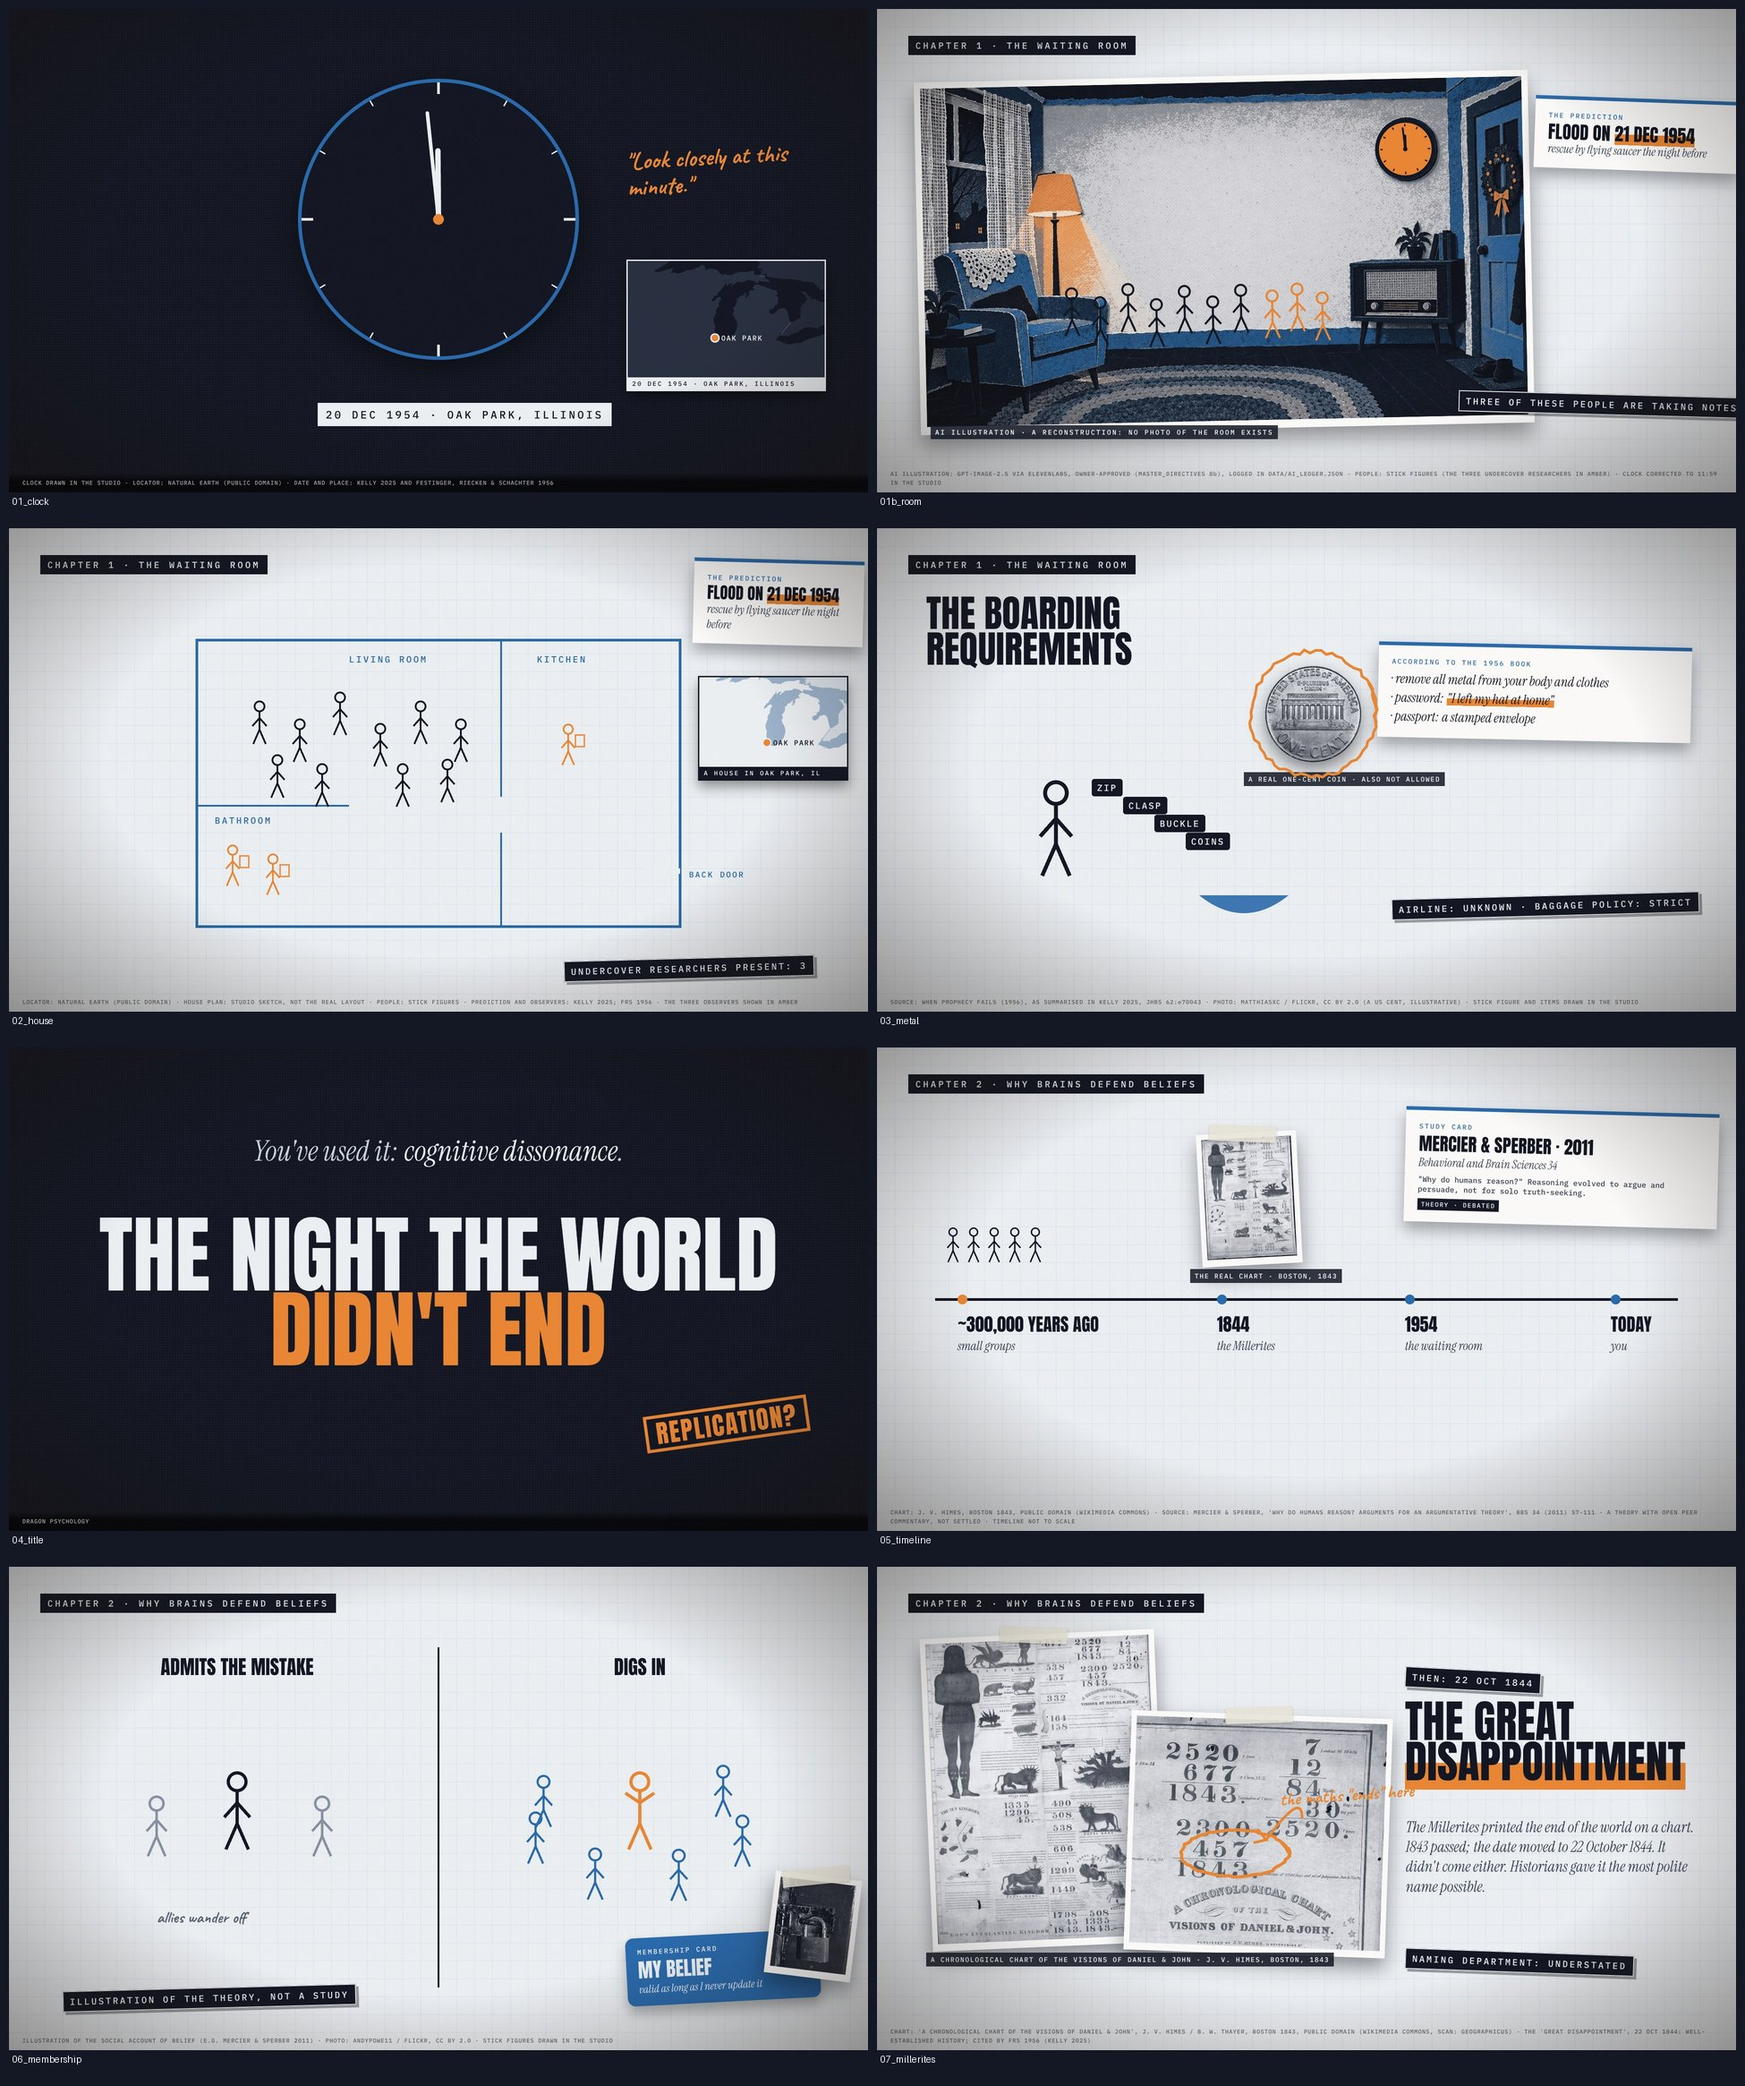
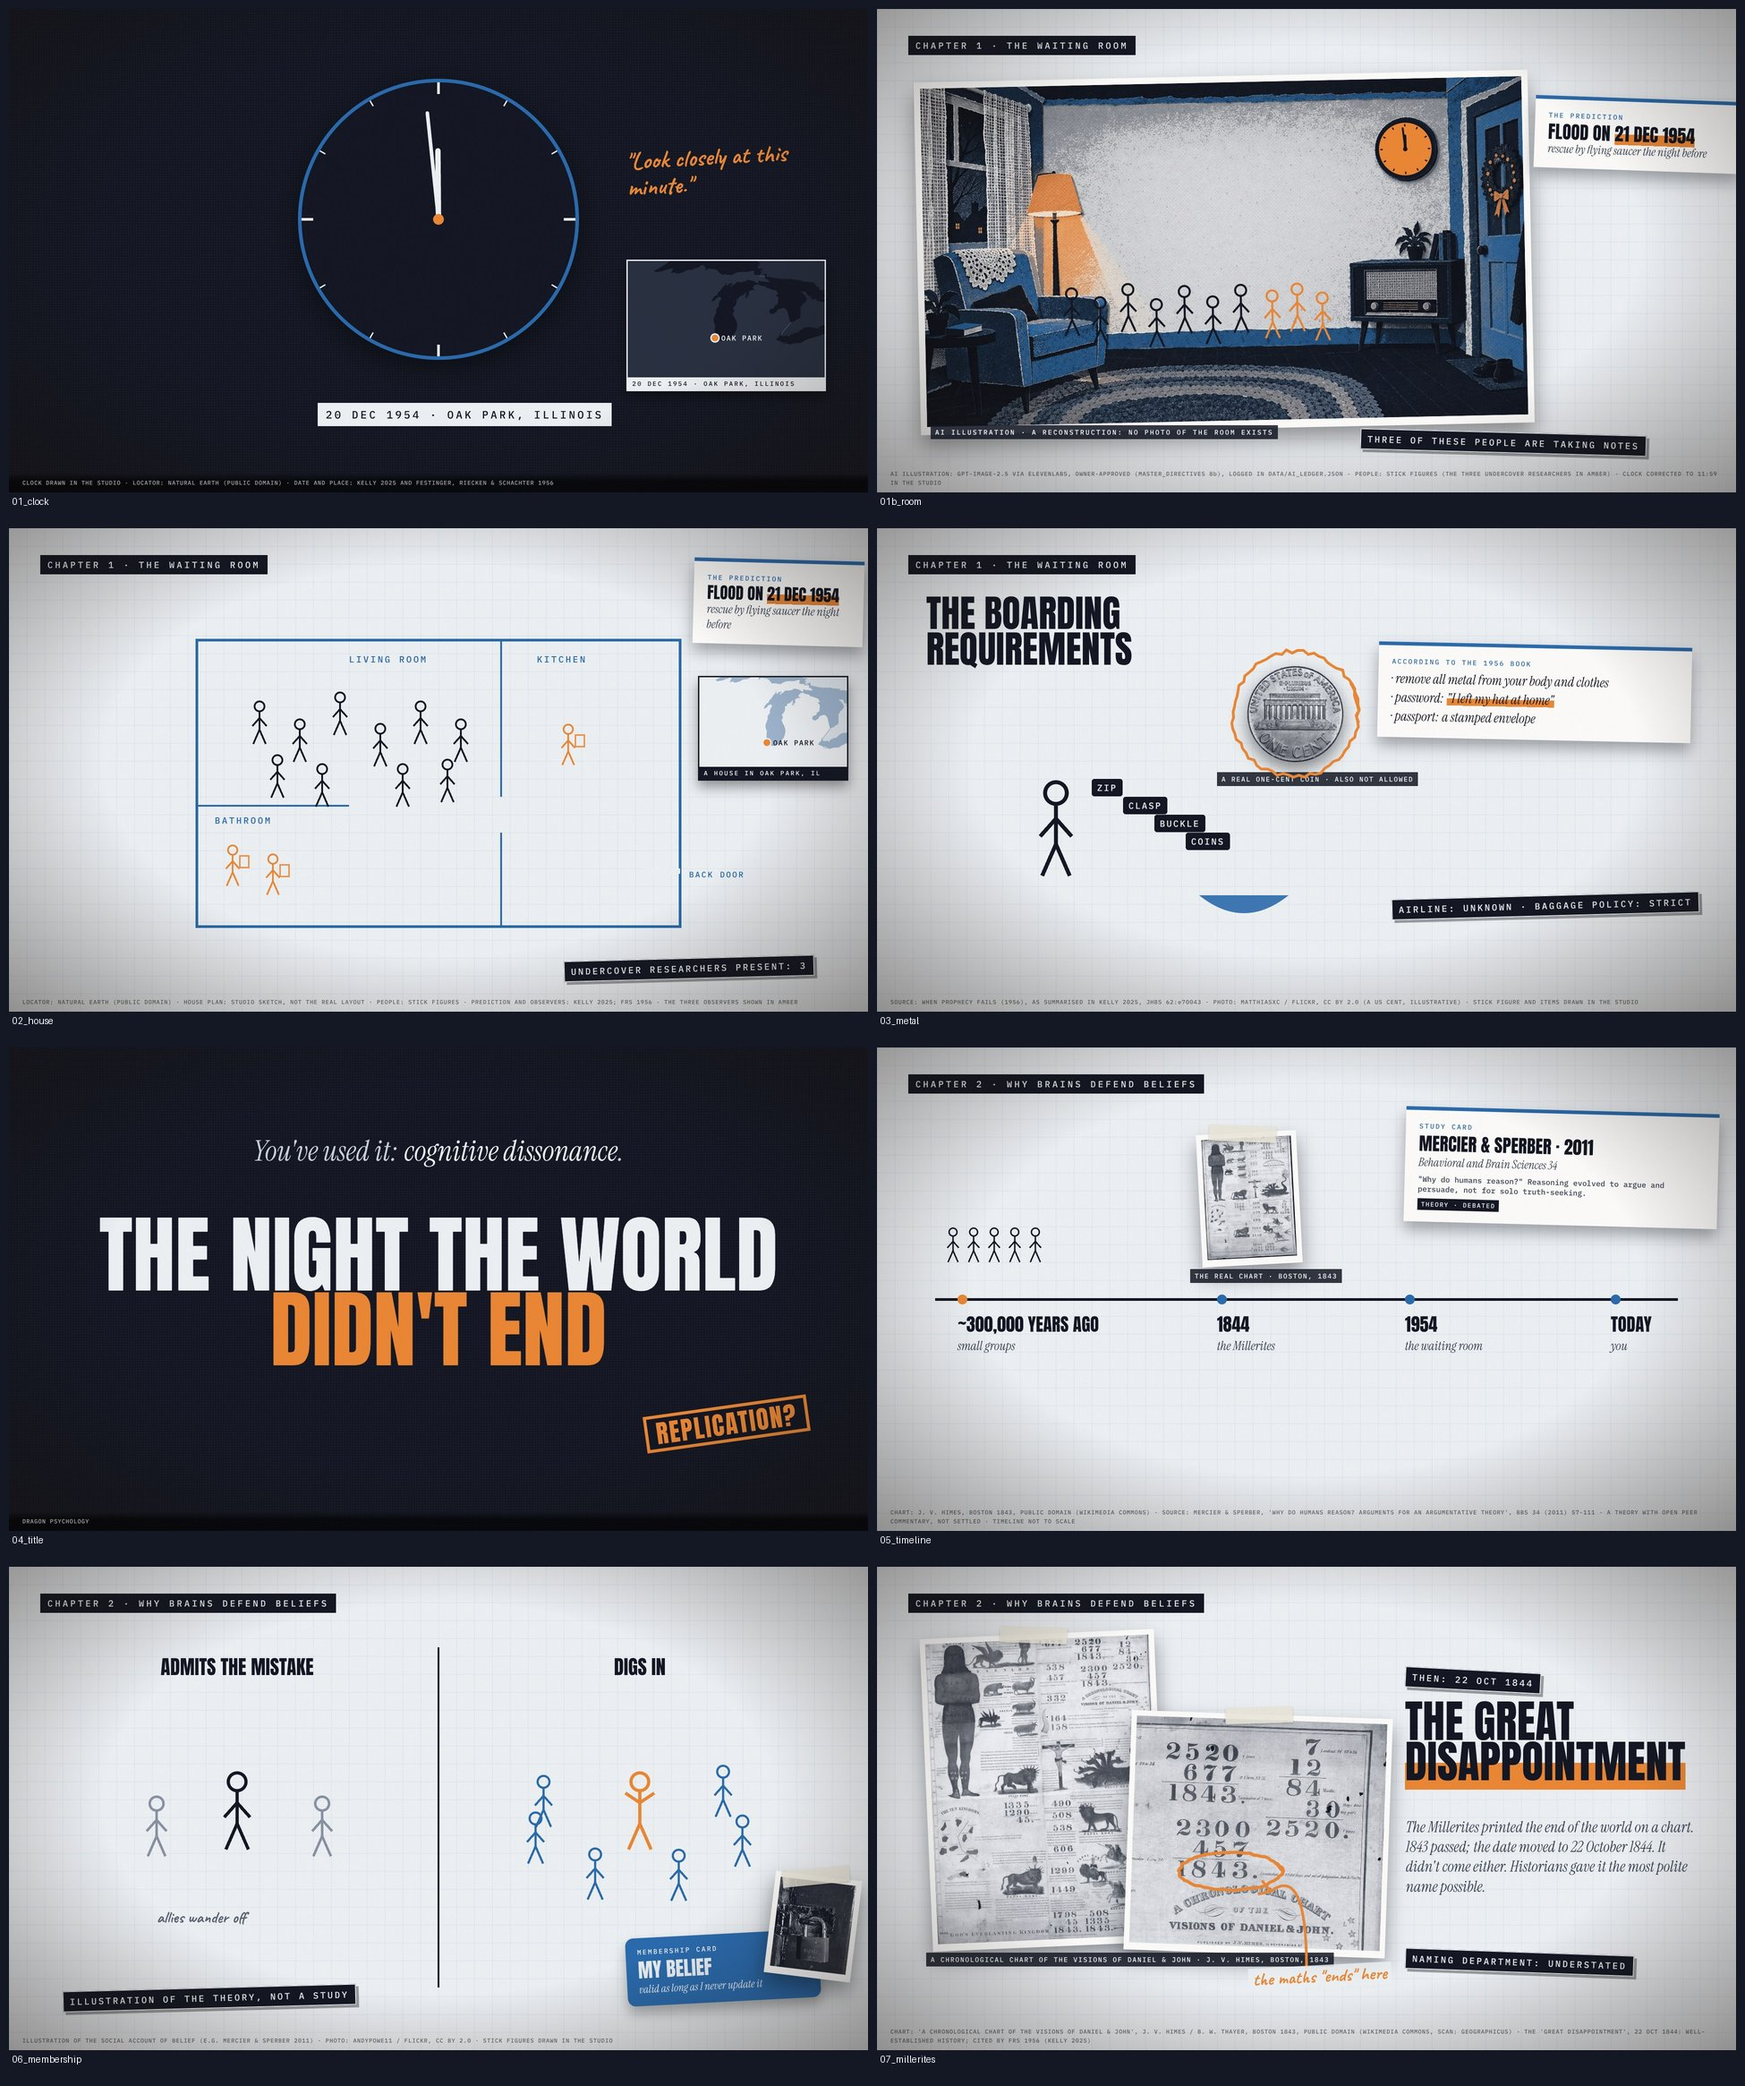
Prophecy: 3 AI plates (from 15 AI frames), 17 of 28 frames real (Millerite 1843 chart, Bentley Library, archive, phones, books, night sky), 12 motion builds; RESTORE notes
Claude-Session: https://claude.ai/code/session_017xrBtfYjuM4LWtQjRrahAL

diff --git a/creatorforge/films/prophecy-2026-11-19/frames.py b/creatorforge/films/prophecy-2026-11-19/frames.py
@@ -410,9 +410,11 @@ spines = "".join(A(f'<div style="width:46px;height:{260 + (i * 37) % 90}px;backg
 put("22_irony", page(
     a(f'<div style="width:1920px;height:1080px;{GRID}"></div>', 0, 0) + chapter(5, "THE IRONY")
     + spines + A(f'<div style="width:1320px;height:6px;background:{SL}"></div>', 280, 640, "wipe 0 .1")
+    + photo("books_two.jpg", 250, 330, 1630, 200, "up .5 .62", 3, pos="40% 50%")
+    + caption("AND THE REAL THING", 1630, 560, "fade .58 .66")
     + A(f'<div style="font:500 20px Plex;letter-spacing:3px;color:#5B6576">1956 ················ SEVENTY YEARS OF TEXTBOOKS ················ 2025</div>', 300, 660, "fade .05 .15")
     + A(f'<div style="font:400 110px/0.9 Anton;color:{SL};text-align:center;width:1920px">THE STUDY ABOUT DOUBLING DOWN<br><span style="color:{AM}">GOT DOUBLED DOWN ON</span></div>', 0, 760, "slam .75 .77"),
-    PAPER, "BOOK SPINES DRAWN IN THE STUDIO · 'SEVENTY YEARS' = 1956-2025"))
+    PAPER, "BOOK SPINES DRAWN IN THE STUDIO · PHOTO: HORIA VARLAN / FLICKR, CC BY 2.0 (ILLUSTRATIVE) · 'SEVENTY YEARS' = 1956-2025"))
 
 kin = lambda word, x, y, s0, size=132, col=SL, tail="": a(f'<div style="font:400 {size}px/1 Anton;color:{col};white-space:nowrap">' + "".join(f'<span data-anim="drop {s0 + k * .035:.3f} {s0 + k * .035 + .06:.3f}" style="display:inline-block">{ch}</span>' for k, ch in enumerate(word)) + tail + '</div>', x, y, "z-index:40")
 put("22b_textbooks", page(

diff --git a/creatorforge/films/prophecy-2026-11-19/PRESHOW.md b/creatorforge/films/prophecy-2026-11-19/PRESHOW.md
@@ -1,7 +1,66 @@
 # Pre-show list: The Night the World Didn't End (key frames, DJ style)
 
-This sheet shows 24 key frames for Dragon Psychology, covering all five beats of `SCRIPT_TABLE.md` draft 1. Each frame is also shown
+The first round showed 24 key frames for Dragon Psychology, covering all five beats of `SCRIPT_TABLE.md` draft 1. Each frame is also shown
 at four moments of its animation (sheets `M_1`–`M_3`). There is no video, voice or music: video only after "go".
+
+## Updated 2026-11-19 (round 5): more real pictures and motion, less AI (sheets `V5_1`–`V5_4`, motion sheet `M_5`)
+Your rule: "we need more real pictures, animation, motion graphics etc and less ai" (MASTER_DIRECTIVES §8c).
+
+- **Counts:**
+
+  | | Before | Now |
+  |---|---|---|
+  | Frames | 30 | 28 |
+  | Frames with an AI plate | 15 (10 plates, plus the AI desk under 5 slate frames) | 3 (1 in 9) |
+  | Frames carrying real material | 1 (the map) | 17 (61%) |
+  | Motion builds on the motion sheet | the drawn builds only | 12 |
+
+- **What replaced each AI plate:**
+  - **F1 (desk):** the drawn slate is back under every slate frame.
+  - **C1:** `07_millerites` now uses the **real 1843 Millerite chart** ("A Chronological Chart of the Visions of Daniel & John", J. V. Himes, Boston; public domain). It shows the full sheet and a close-up of its sums, which end in 1843, with an amber circle. The line now reads "1843 passed; the date moved to 22 October 1844". That fact is added to the dossier.
+  - **E2:** `15_box` now uses a **real photo of the Bentley Historical Library** (Dwight Burdette, CC BY 3.0), with the sign circled, and a real archive photo (Toronto Archives, CC BY 2.0). The archive photo is labelled "not the Bentley, not the Festinger box". The pages are still drawn and labelled as reconstructions.
+  - **F2:** `11b_phones` now uses **real 1950s desk phones** (a Western Union Model 500 and a Bakelite set, both CC BY 2.0), labelled "not the group's own".
+  - **F5:** `22b_textbooks` now uses **a real stack of books** (CC BY 2.0, no titles shown), with kinetic type: "DOUBLED / DOWN ON." drops in letter by letter.
+  - **F3:** dropped. The drawn `13_carlsmith` now has a **real peg board** ("not the 1959 apparatus") and the $1 and $20 bars grow from a zero line. They still show the direction of the effect only.
+  - **F6:** dropped. The drawn `06_membership` is back, with a **real padlock** photo on the card.
+  - **B3:** `24_end` is a **real night sky over a house** ("not Oak Park, not 1954") under the drawn cracked clock and saucer.
+- **AI kept (3), only where nothing real exists:**
+  - **A1:** the 1954 living room nobody photographed. It is now a labelled print on the drawn grid, not a backdrop.
+  - **D1:** the antelope sight gag.
+  - **F4:** the valve-in-your-head metaphor.
+- **Other real material added:**
+  - Natural Earth locator maps on `01_clock` and `02_house`.
+  - The 1843 chart pinned at 1844 on the timeline.
+  - A real coin on `03_metal` and a real pressure gauge as the dissonance dial on `12_valve`.
+  - The Bentley photo on `16_kelly`, and archive boxes on `21_otherside`.
+  - `20_replications` counts up the Vaidis 2024 figures: 39 labs, 19 countries, 4,898 people. The dossier doesn't list the 19 countries, so there's no world map.
+- **Motion (sheet `M_5`):**
+  - the house plan drawing on;
+  - the metal items and the coin dropping in;
+  - the timeline wipe;
+  - a slow camera push on the chart;
+  - the Great Lakes route, drawn in story order (Minneapolis → Oak Park → East Lansing → Ann Arbor);
+  - the valve and gauge;
+  - the peg board and the bars growing from zero;
+  - the two clocks, whose hands now spin;
+  - the archive (the pages drop in, the arrow draws on);
+  - the count-up;
+  - the book spines growing;
+  - the "doubled down" kinetic type.
+- **The investigator layer:** amber circles and arrows sit on the chart, the coin, the gauge and the library sign; the photos are taped prints. Amber stays the only signal colour, and the chart is shown in black and white, so there's no yellow.
+- **Real photos** are black and white or cobalt duotone (`real.py`). No faces of the group or the researchers are shown anywhere. The banner with people in the Bentley photo is cropped out.
+- **Credits** are on screen in each frame's source line and listed in `data/photo_credits.json`:
+  - J. V. Himes chart (PD, Commons);
+  - Dwight Burdette (CC BY 3.0, Commons);
+  - Phillip Pessar, nreijmersdal, sillygwailo, Digital Game Museum, Wonderlane, Horia Varlan, Eric M Martin, wwarby, matthiasxc, andypowe11 and Robin Mulligan (all CC BY 2.0, Flickr via Openverse).
+  - Retired plates are marked in `data/ai_ledger.json`.
+  - No new AI images were made, and no ElevenLabs credits were spent.
+- **Not found:**
+  - No real photo of a 1950s Chicago-area street or house fits. The candidates were Australian or Frank Lloyd Wright houses, which would mislead, so A1 stays.
+  - No real lottery-ticket or spool photo was found for the peg task.
+- **Build:** `python3 -I real.py && python3 frames.py && python3 ai_frames.py && python3 shoot_http.py && python3 shoot_http.py $(python3 sheets.py --list) && python3 sheets.py`.
+
+> The sections below are the earlier rounds. Where they describe AI plates, round 5 replaces them.
 
 ## What you're about to see
 - **Hook:**

diff --git a/creatorforge/films/RESTORE.md b/creatorforge/films/RESTORE.md
@@ -10,7 +10,8 @@ Rendered frames, photos and AI images are gitignored. This is how they were rebu
 ## The Night the World Didn't End (`prophecy-2026-11-19`)
 - AI picks A1, B3, C1, D1 and E2 are re-fetched by generation ID from the ElevenLabs flow `pQGk0bAw8kXDdsfofcfS` ("Dragon Psychology · The Night the World Didn't End · AI plates"). Use `creative_get_generations`, which spends no credits, then download `full_res_url`. They go in `assets/ai/<label>.jpg`. Never generate them again.
 - Round 2 plates F1–F6 come from the same flow (generation IDs in `data/ai_ledger.json`). Save the raws in `assets/ai_raw/`, then finish every used plate (A1, B3, C1, D1, E2, F1–F6) with `python3 -I ../../channels/design_kits/ai_finish.py assets/ai_raw/X assets/ai/X.jpg --channel dp`.
-- Then run `python3 frames.py && python3 ai_frames.py && python3 shoot_http.py`. The result is 30 frames.
+- **Real photos (2026-11-19 rework):** run `python3 -I real.py`, which re-fetches the credited photos in `data/photo_credits.json`. Only A1, D1 and F4 remain as AI plates.
+- Then run `python3 frames.py && python3 ai_frames.py && python3 shoot_http.py`. The result is 28 frames.
 
 ## Pepper Was Money (`pepper-money-2026-11-15`)
 - **Photos:**
@@ -35,4 +36,5 @@ Rendered frames, photos and AI images are gitignored. This is how they were rebu
 - **Terrain box:** India terrain is `terrain.heights("india", (67.0, 5.5, 98.5, 37.5), 6)`. The original box wasn't recorded; this one was chosen on 2026-11-19, so `relief_a/b/c` sit slightly differently from sheet `M_4_new`.
 - **AI plates AI1–AI6:** re-fetch them by generation ID from flow `TqEmfXfQP7ZvL79XUAW5` (`data/ai_ledger.json`) into `assets/ai_raw/`. Finish each with `ai_finish.py --channel pf` into `assets/ai/`.
 - **Paths:** the scripts expect the repo at `/home/user/forgeos`. If it's cloned as `/home/user/Forgeos`, add a symlink: `ln -s /home/user/Forgeos /home/user/forgeos`.
+- **Real photos (2026-11-19 rework):** `data/photo_credits_2.json` lists the replacements for every AI plate (all retired). Fetch them into `assets/real2/`.
 - **Build:** run `frames.py`, `faces.py`, `motion.py`, `ai_frames.py`, then `shoot_http.py`. That gives 42 frames.
